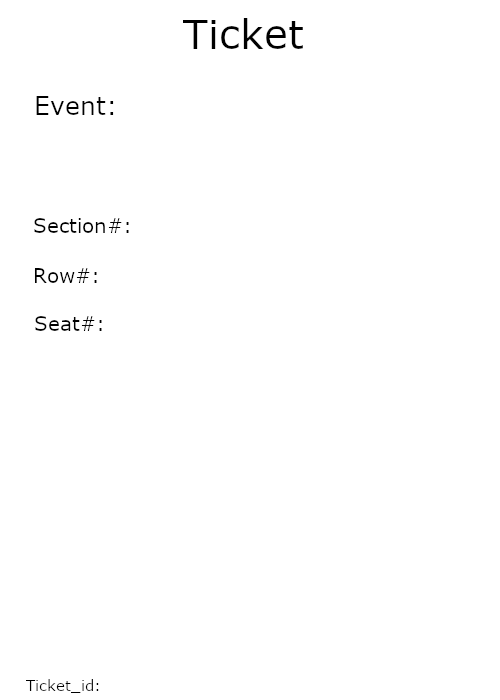
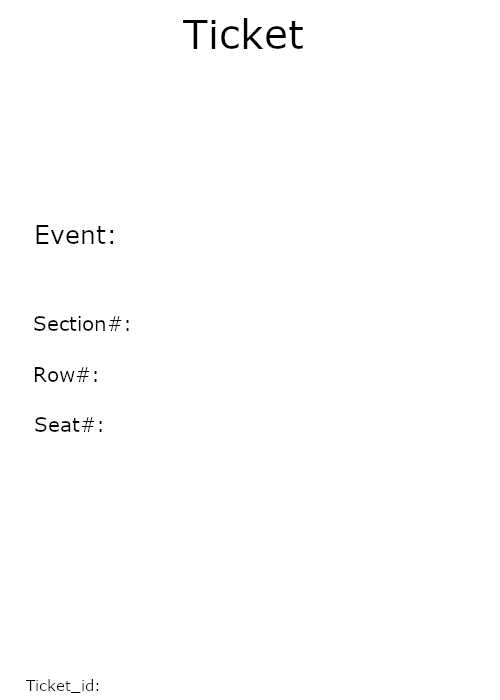
qr code working

diff --git a/generateTicket.py b/generateTicket.py
@@ -1,6 +1,7 @@
 import sys
 import os
 from PIL import Image, ImageDraw, ImageFont
+import qrcode
 
 
 cur_path = os.path.dirname(os.path.realpath('__file__'))
@@ -16,7 +17,7 @@ draw = ImageDraw.Draw(ticket)
 
 # Event Name
 draw.font = ImageFont.truetype("FreeMono.ttf", 25)
-draw.text((125,95), sys.argv[2], fill="black")
+draw.text((130,222), sys.argv[2], fill="black")
 
 # Section number
 draw.font = ImageFont.truetype("FreeMono.ttf", 20)
@@ -33,6 +34,25 @@ draw.text((112,315), sys.argv[5], fill="black")
 # ticket_id
 draw.font = ImageFont.truetype("FreeMono.ttf", 20)
 draw.text((105,675), str(abs(hash(sys.argv[1]))) + '_' + sys.argv[1], fill="black")
+
+
+qr = qrcode.QRCode(version = 1,
+                   box_size = 5,
+                   border = 5)
+ 
+# Adding data to the instance 'qr'
+qr.add_data(str(abs(hash(sys.argv[1]))) + '_' + sys.argv[1])
+ 
+qr.make(fit = True)
+qr_image = qr.make_image(fill_color = 'black',
+                    back_color = 'white')
+ 
+qr_image.save('ticket_qrcode_' + sys.argv[1] + '.png')
+
+qrimg = Image.open('ticket_qrcode_' + sys.argv[1] + '.png')
+
+ticket.paste(qrimg, (170, 50))
+
 
 # ticket.save(new_path + "ticket_" + sys.argv[1] + '.png')
 ticket.show()

diff --git a/Event.java b/Event.java
@@ -2,20 +2,24 @@ import javax.swing.*;
 import java.awt.*;
 import java.awt.event.MouseEvent;
 import java.awt.event.MouseListener;
+import java.text.SimpleDateFormat;
+import java.time.format.DateTimeFormatter;
 import java.util.Date;
 
 public class Event extends JLabel {
     int eventID;
     String eventName;
     String eventDesc;
-    Date eventDate;
+    String eventDate;
     String eventType;
     Section[] sections;
     int numSeats;
     int numSections;
     int seatsPerRow;
+//    DateTimeFormatter dateTimeFormatter; = DateTimeFormatter.ofPattern("dd-MM-yyyy HH:mm:ss");
 
-    Event(String eventName, String eventDesc, Date eventDate, String eventType, int numSections, int numSeats, int seatsPerRow, int eventID){
+    Event(String eventName, String eventDesc, String eventDate, String eventType, int numSections, int numSeats, int seatsPerRow, int eventID){
+//        dateTimeFormatter = DateTimeFormatter.ofPattern("dd-MM-yyyy HH:mm:ss");
         this.eventName = eventName;
         this.eventDesc = eventDesc;
         this.eventDate = eventDate;

diff --git a/GameArenaSystem.java b/GameArenaSystem.java
@@ -7,7 +7,7 @@ public class GameArenaSystem {
     public static void main(String[] args) {
         UI ui = new UI(2, 50, 10);
         cart = new Cart();
-        Event[] events = {new Event("Billy Joel World Tour", "Billy Joel concert ", new Date(), "Concert", 3, 50, 10, 0), new Event("Call Of Duty Major 3 Tournament", "Esports ", new Date(), "Tournament ", 5, 50, 25, 1)};
+        Event[] events = {new Event("Billy Joel World Tour", "Billy Joel concert ", "October 9, 2023 12pm", "Concert", 3, 50, 10, 0), new Event("Call Of Duty Major 3 Tournament", "Esports ", "June 26, 2023 7pm", "Tournament ", 5, 50, 25, 1)};
         eventList = new EventList();
         eventList.setEventList(events);
         UI.homepage();
